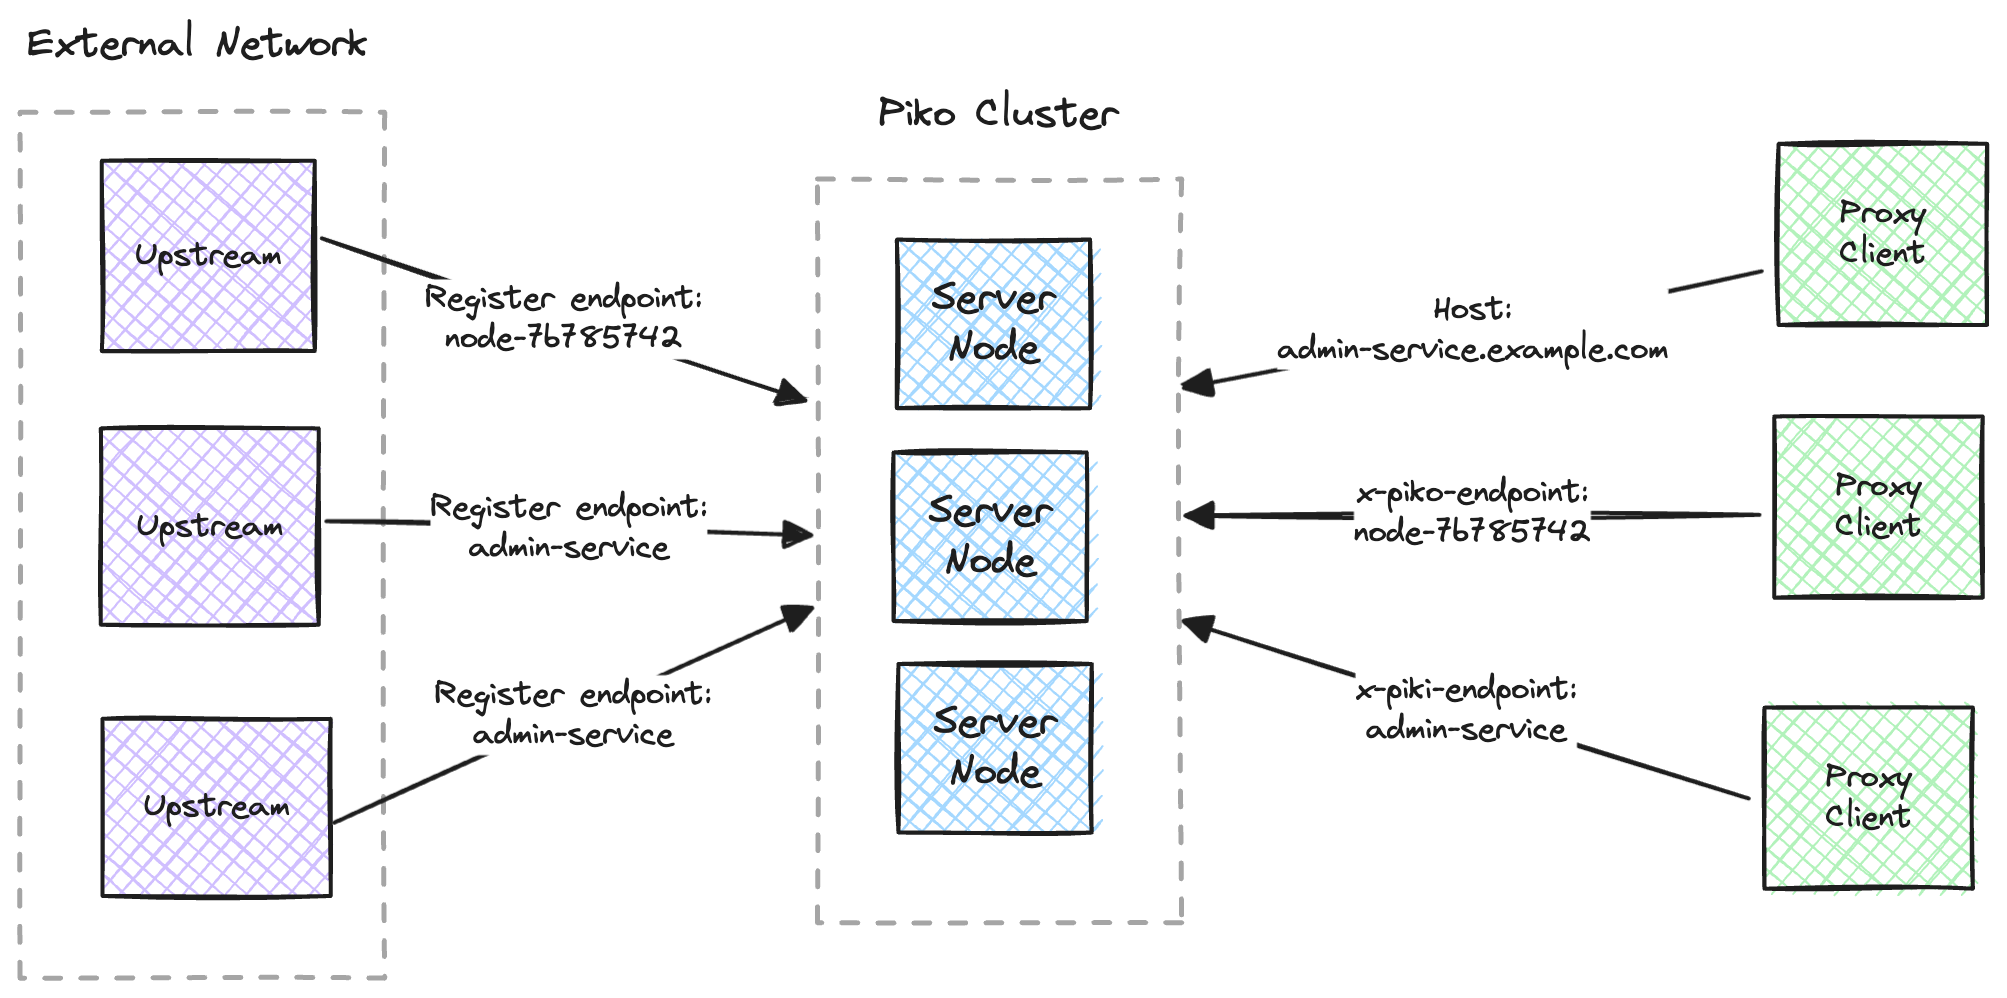
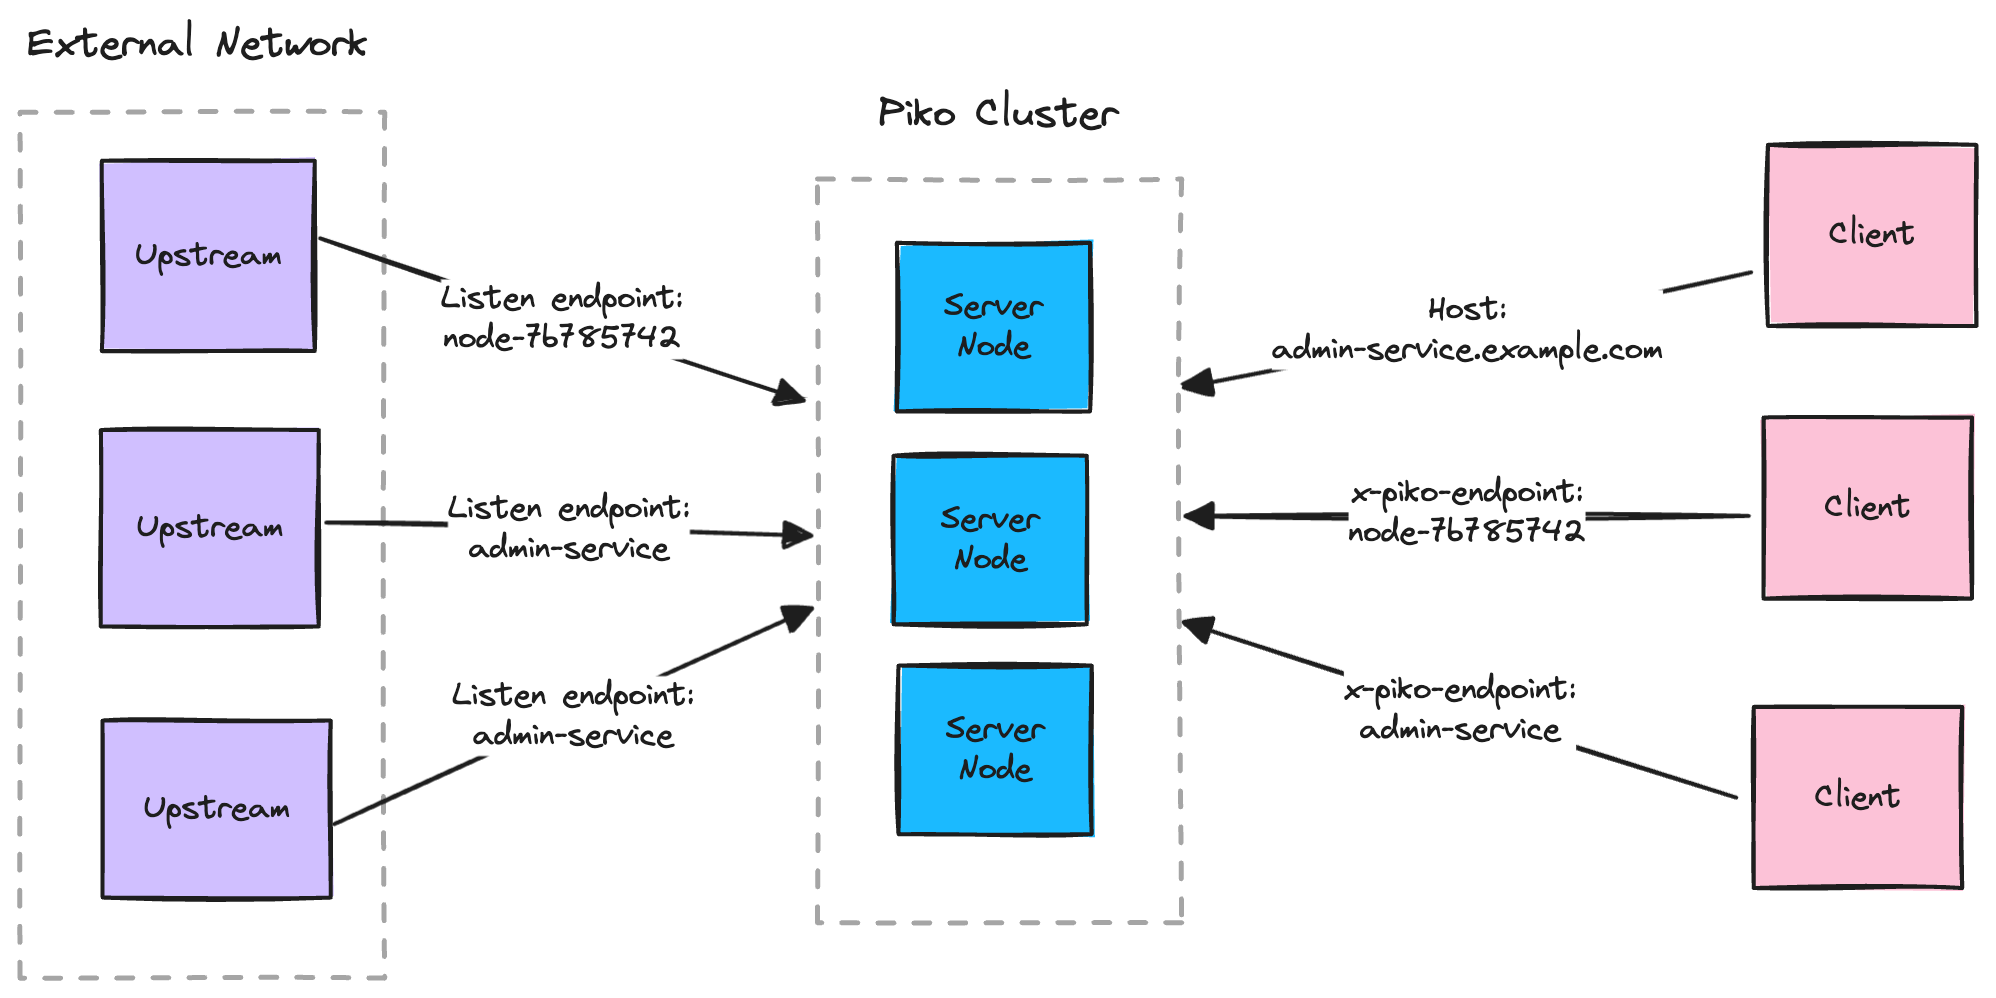
docs: update readme

diff --git a/README.md b/README.md
@@ -4,23 +4,30 @@
 
 ---
 
-Piko is an open-source alternative to [Ngrok](https://ngrok.com/), designed to
-serve production traffic and be simple to host (particularly on Kubernetes).
-Such as you may use Piko to expose services in a customer network, a bring your
-own cloud (BYOC) service or to connect to IoT devices.
+Piko is a reverse proxy for accessing environments that aren’t publicly
+routable, designed to be an open-source alternative to
+[Ngrok](https://ngrok.com/).
 
-The proxy server may be hosted as a cluster of nodes for fault tolerance, scale
-and zero downtime deployments.
+Piko is built to serve production traffic and be simple to self-host on
+Kubernetes. Such as you may use Piko to expose services in a customer network,
+a bring your own cloud (BYOC) service or to connect to user devices.
 
-Upstream services connect to Piko and register endpoints. Piko will then route
-requests for an endpoint to a registered upstream service via its outbound-only
-connection. This means you can expose your services without opening a public
-port.
+Upstream services open an outbound connection to a Piko server and listen for
+traffic on a particular endpoint. Piko then manages routing incoming
+connections and requests to an upstream service listening on the target
+endpoint. All traffic forwarded to the upstream is sent via its outbound-only
+connection to Piko, so you never have to expose a port on the upstream.
 
-Incoming HTTP(S) requests identify the ID of the target endpoint using either
-the `Host` header or an `x-piko-endpoint` header. If multiple upstream services
-have registered the same endpoint, Piko load balances requests for that
-endpoint among the registered upstreams.
+Incoming HTTP(s) requests identify the target endpoint to connect to using
+either the `Host` header or `x-piko-endpoint` header. Such as if an upstream is
+listening on endpoint ‘my-service’, you can send requests to
+‘my-service.piko.example.com’ or add a ‘x-endpoint-id: my-service’ header. If
+multiple upstreams are listening on the same endpoint, Piko load balances
+requests among those upstreams.
+
+Since Piko is designed to serve production traffic, the server may be hosted as
+a cluster of nodes, meaning it is fault tolerant, scales horizontally and
+supports gradual rollouts.
 
 <p align="center">
   <img src="assets/images/overview.png" alt="overview" width="80%"/>
@@ -39,39 +46,60 @@ endpoint among the registered upstreams.
 
 ### Production Traffic
 
-Piko is designed to serve production traffic rather than as a tool for testing
-and development. Such as you could use Piko to:
-* Access customer networks
-* Build a bring your own cloud (BYOC) solution
-* Access IoT devices
+Piko is built to serve production traffic, which means the Piko server must run
+as a cluster of nodes to be fault tolerant, scale horizontally and support zero
+downtime deployments.
 
-To support this, Piko may run as a cluster of nodes in order to be fault
-tolerant, scale horizontally and support zero downtime deployments. It also has
-observability tools for monitoring and debugging.
+Say an upstream is listening for traffic on endpoint E and connects to node N.
+Node N will notify the other nodes that it has a listener for endpoint E, so
+they can route incoming traffic for that endpoint to node N, which then
+forwards the traffic to the upstream via its outbound-only connection to the
+server. If node N fails or is deprovisioned, the upstream listener will
+reconnect to another node and the cluster propagates the new routing
+information to the other nodes in the cluster. See
+[Architecture Overview](./docs/architecture/overview.md) for details.
+
+Piko also has a Prometheus endpoint, access logging, and status API so you can
+monitor your deployment and debug issues. See observability for details.
 
 ### Hosting
 
-Piko is built to be simple to host on Kubernetes. A Piko cluster may be hosted
-as a Kubernetes StatefulSet behind a HTTP load balancer or Kubernetes Gateway.
+Piko is built to be simple to host on Kubernetes. This means it can run as a
+cluster of nodes (such as a StatefulSet), supports gradual rollouts, and can be
+hosted behind a HTTP load balancer or Kubernetes Gateway.
 
-Upstream service connections and proxy client requests may be load balanced to
-any node in the cluster and Piko will manage routing the requests to the
-correct upstream.
+Upstream services and downstream clients may connect to any node in the cluster
+via the load balancer, then the cluster manages routing traffic to the
+appropriate upstream.
+
+See [Kubernetes](./docs/manage/kubernetes.md) for details.
+
+### Dynamic Endpoints
+Endpoints in Piko are the equivalent of a domain name in DNS.
+
+Upstreams may listen to any endpoint and Piko load balances traffic for each
+endpoint among the upstreams listening for that endpoint.
+
+There is no static configuration required to configure endpoints, nor are
+upstreams assigned random endpoint IDs. Instead upstreams can select their own
+endpoint at runtime.
+
+You may have multiple upstreams listening on the same endpoint, such as nodes
+nodes in a payments service listening on the ‘payments’ endpoint, or each
+upstream may have a unique endpoint identifying the node.
 
 ### Secure
 
-Upstream services connect to Piko via an outbound-only connection. Piko will
-then route any requests to the upstream via that connection. Therefore the
-upstream never has to open a port to listen for requests.
+Upstream services connect to the Piko server via an outbound-only connection.
+Piko will then route traffic to the upstream via that connection. Therefore the
+upstream never has to expose a port to listen for traffic.
 
-Piko supports authenticating upstream services before they can register
-endpoints.
-
-Since Piko can be self-hosted, you can host it in the same network as your
-proxy clients so never accept requests from an external network. Such as you
-may have authenticated upstream services register from the Internet over TLS,
-then only provide an internal route for proxy clients in the same network as
-Piko.
+The server has separate ports for traffic from downstream clients (the ‘proxy
+port’) and connections from upstreams (the ‘upstream port’). In a typical
+deployment you may expose the upstream port to the Internet for upstreams in
+different networks to connect (using TLS and authentication), though only allow
+proxy port access from within the same network as the server. Therefore you
+never have to accept requests from external networks.
 
 ## Getting Started
 
